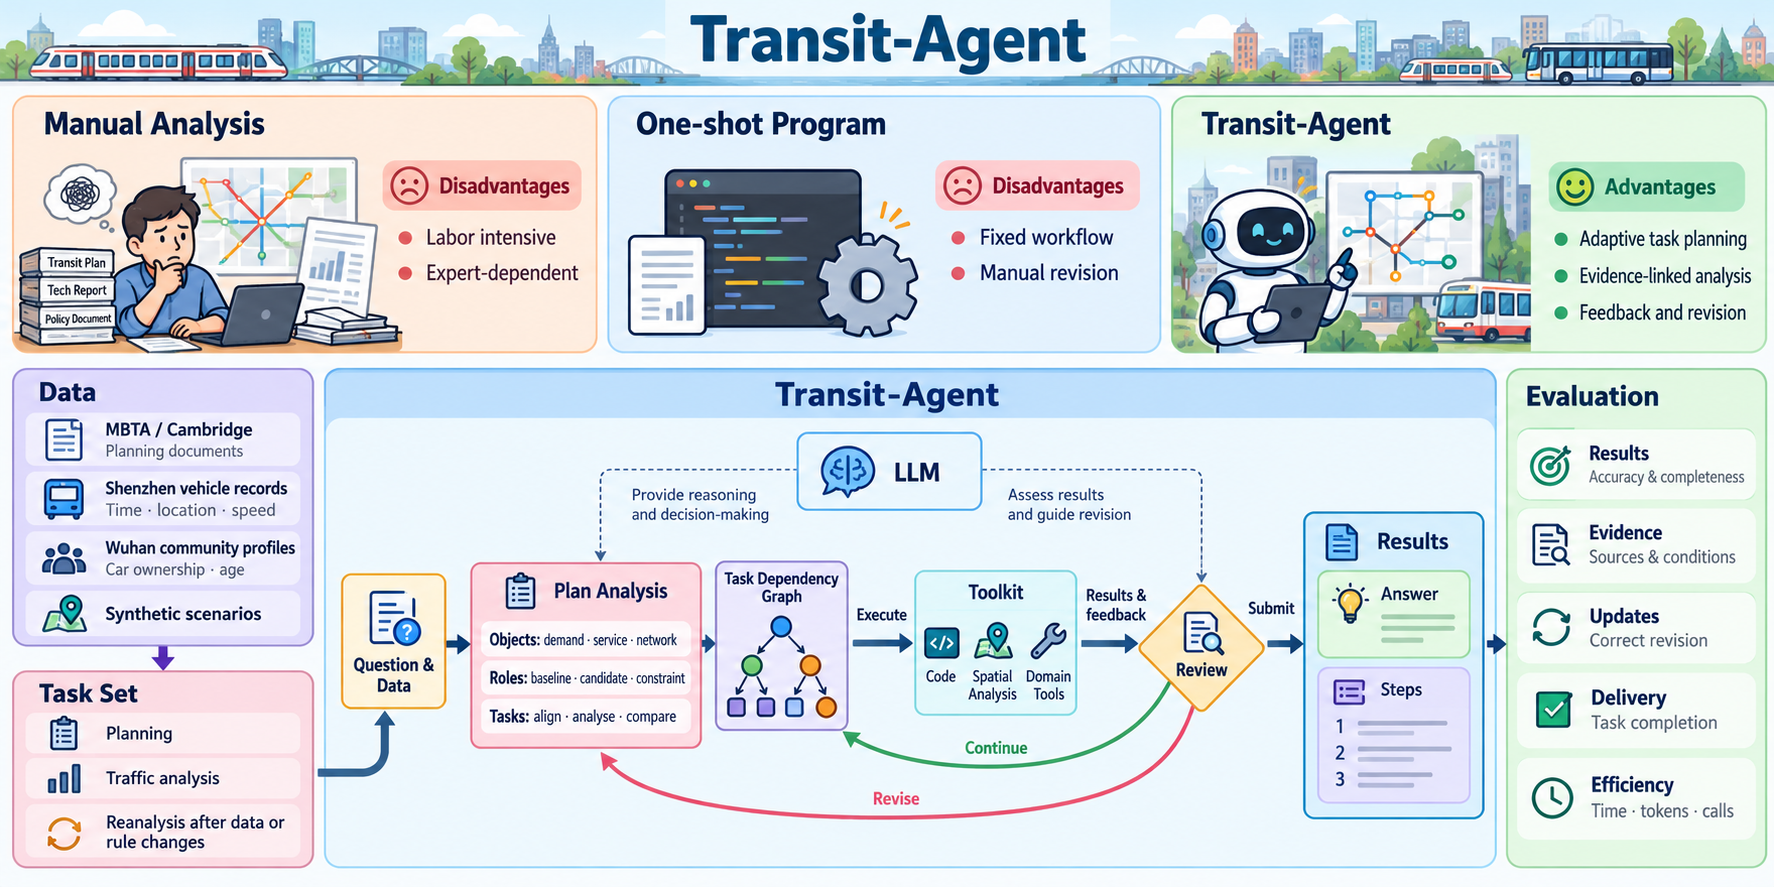
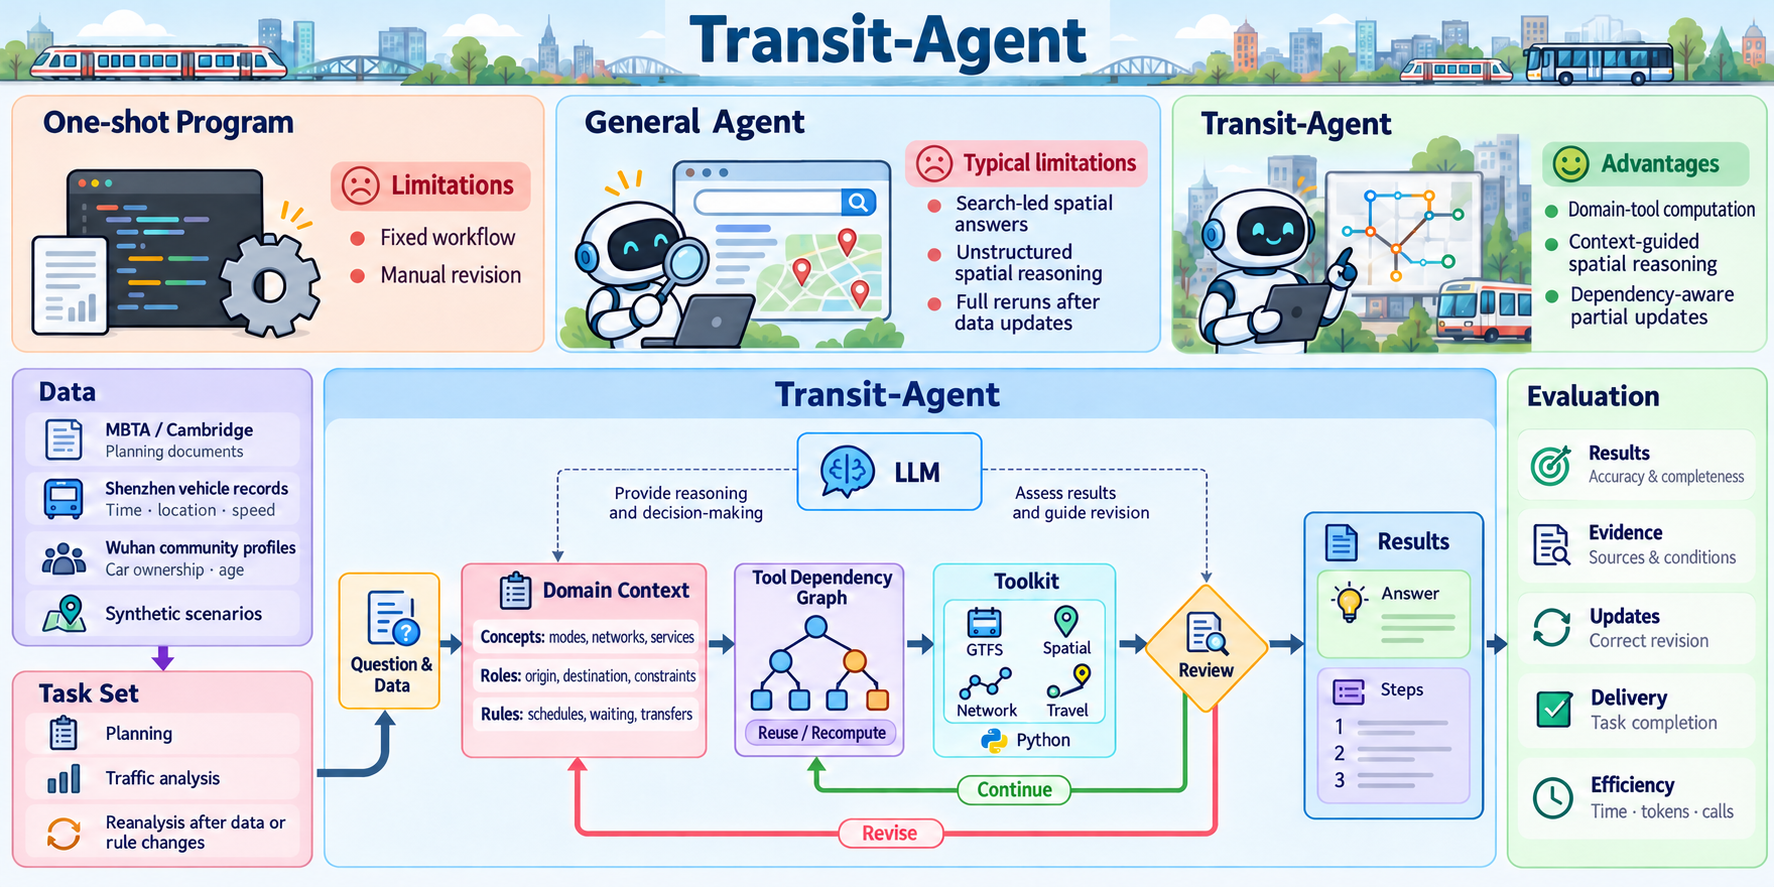
Update project overviews and remove image links

diff --git a/index.html b/index.html
@@ -95,10 +95,8 @@
           <div class="project-heading"><h3>Transit-Agent</h3></div>
           <p class="meta">Project lead, National Undergraduate Innovation Training Program<br><time datetime="2026-06">Jun 2026</time> to present</p>
           <figure>
-            <a class="figure-link" href="assets/transit-overview.png" target="_blank" rel="noopener" aria-label="Open the Transit-Agent architecture figure at full size in a new tab">
-              <img src="assets/transit-overview.png" alt="Transit-Agent architecture: data and tasks feed a dependency graph, professional tools, execution feedback, and analysis outputs." width="1774" height="887" loading="lazy">
-            </a>
-            <figcaption>An AI agent for transportation analysis that reuses valid results when data changes.</figcaption>
+            <img class="project-image" src="assets/transit-overview.png" alt="Transit-Agent overview: domain context, a tool dependency graph, spatial and transport tools, and feedback-driven analysis with partial updates." width="1774" height="887" loading="lazy" decoding="async">
+            <figcaption>An urban transportation analysis agent combining domain context, spatial and transport tools, and a dependency graph to recompute affected steps while reusing valid results when data changes.</figcaption>
           </figure>
           <a class="project-link" href="https://github.com/ETTboson/Transit-Agent" aria-label="Transit-Agent project on GitHub">Project <span class="link-arrow" aria-hidden="true">↗</span></a>
         </article>
@@ -107,10 +105,8 @@
           <div class="project-heading"><h3>Rural-Renew</h3></div>
           <p class="meta">Project lead, University Industry-Academia-Research Program<br><time datetime="2026-01">Jan 2026</time> to <time datetime="2026-10">Oct 2026</time></p>
           <figure>
-            <a class="figure-link" href="assets/rural-comparison.png" target="_blank" rel="noopener" aria-label="Open the Rural-Renew image comparison at full size in a new tab">
-              <img src="assets/rural-comparison.png" alt="Rural housing example showing the original image, a prompt-only generated proposal, and a proposal generated by Rural-Renew." width="2048" height="768" loading="lazy">
-            </a>
-            <figcaption>Evaluation-guided rural scene renewal with a five-dimensional perception evaluator.</figcaption>
+            <img class="project-image" src="assets/rural-overview.png" alt="Rural-Renew overview: six aspects and eighteen housing indicators, regional building guidelines, two renewal directions, and five-dimensional evaluation guiding image refinement and selection." width="3072" height="2336" loading="lazy" decoding="async">
+            <figcaption>A rural scene renewal agent that combines structured housing descriptions and regional building guidelines to explore modernization and preservation of local character, with five-dimensional evaluation guiding refinement and selection.</figcaption>
           </figure>
           <a class="project-link" href="https://github.com/ETTboson/rural-renew" aria-label="Rural-Renew project on GitHub">Project <span class="link-arrow" aria-hidden="true">↗</span></a>
         </article>

diff --git a/styles.css b/styles.css
@@ -82,8 +82,7 @@ h1, h2, h3 { color: var(--color-ink); text-wrap: pretty; }
 .project-heading h3 { font-size: 1.75rem; }
 .project .meta { margin-top: var(--space-sm); }
 figure { margin: var(--space-lg) 0; }
-.figure-link { display: block; border: 1px solid var(--color-rule); border-radius: 12px; overflow: clip; background: var(--color-paper-2); }
-.figure-link img { width: 100%; height: auto; }
+.project-image { display: block; width: 100%; height: auto; border: 1px solid var(--color-rule); border-radius: 12px; background: var(--color-paper-2); }
 figcaption { margin-top: var(--space-xs); font-size: 14px; line-height: 1.6; color: var(--color-muted); }
 .project figure { margin-bottom: var(--space-sm); }
 .project figcaption { max-width: 74ch; margin-top: var(--space-md); }
